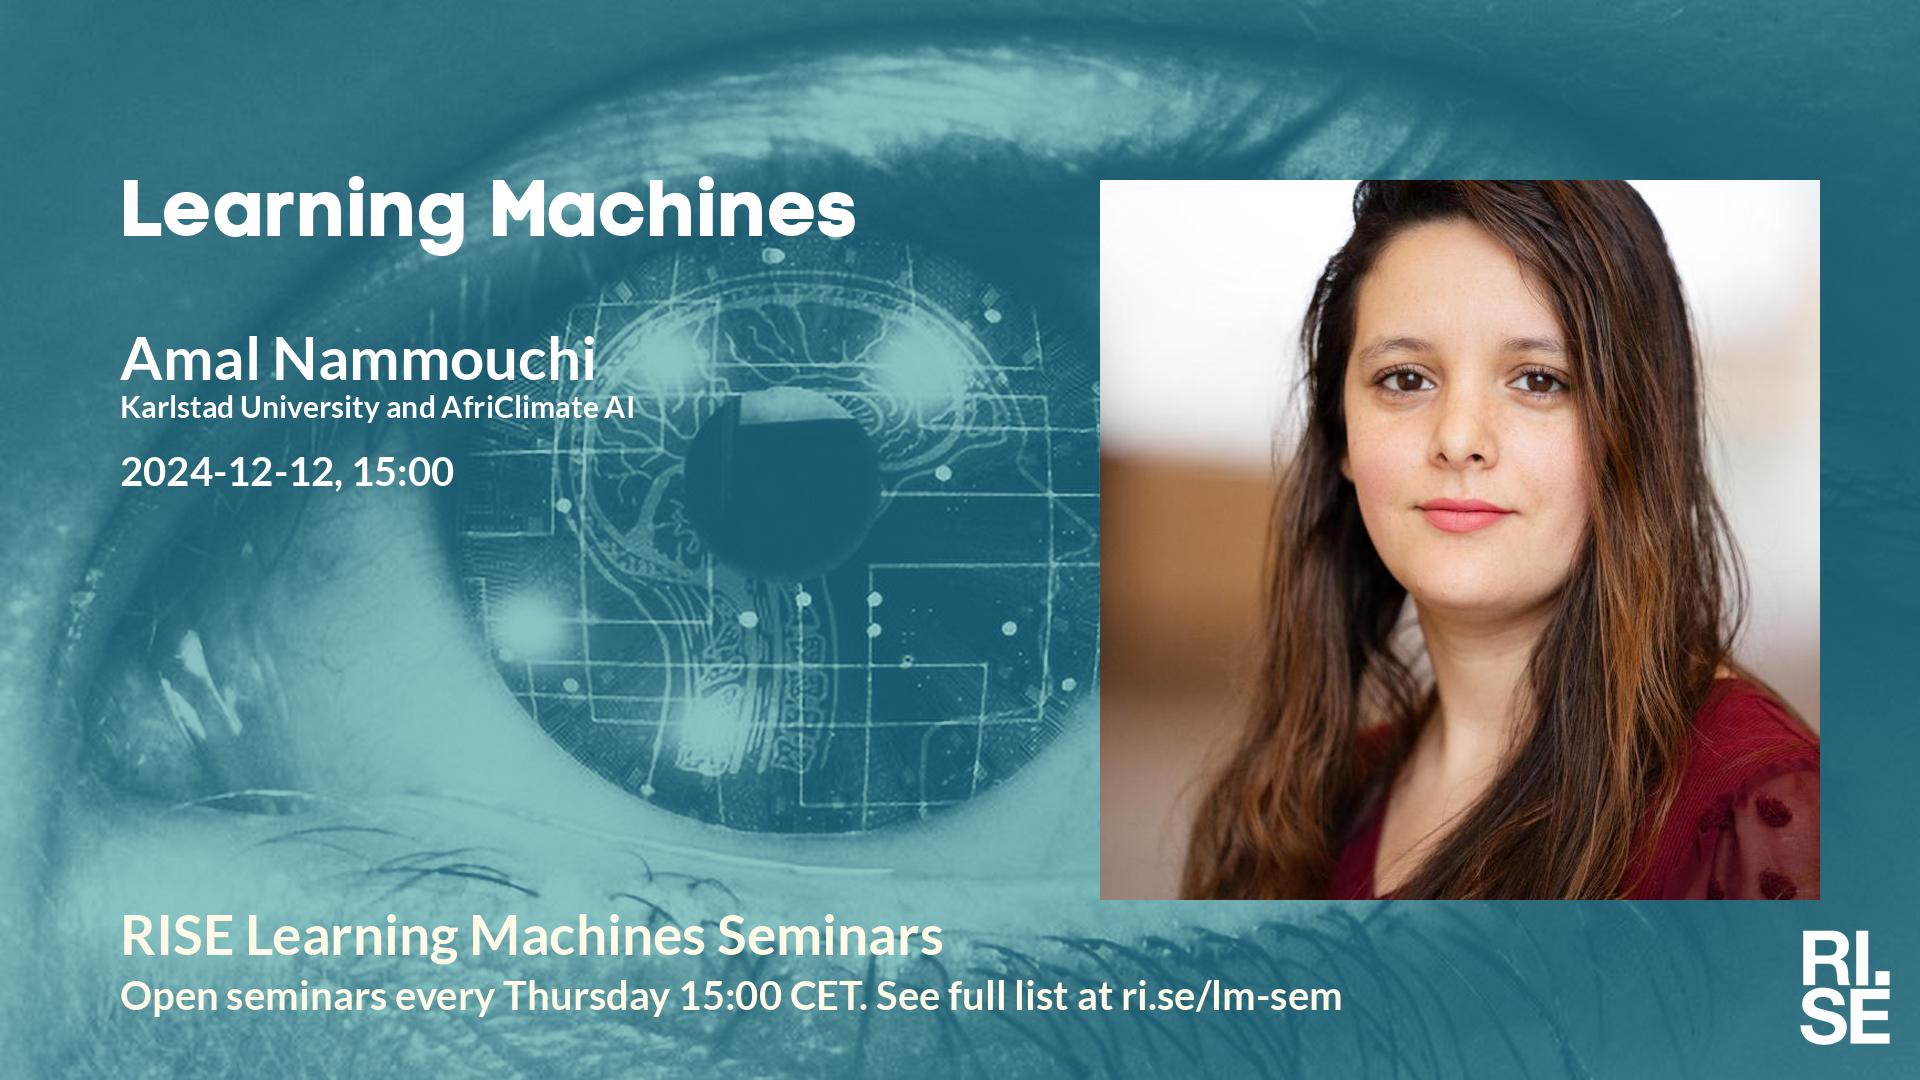
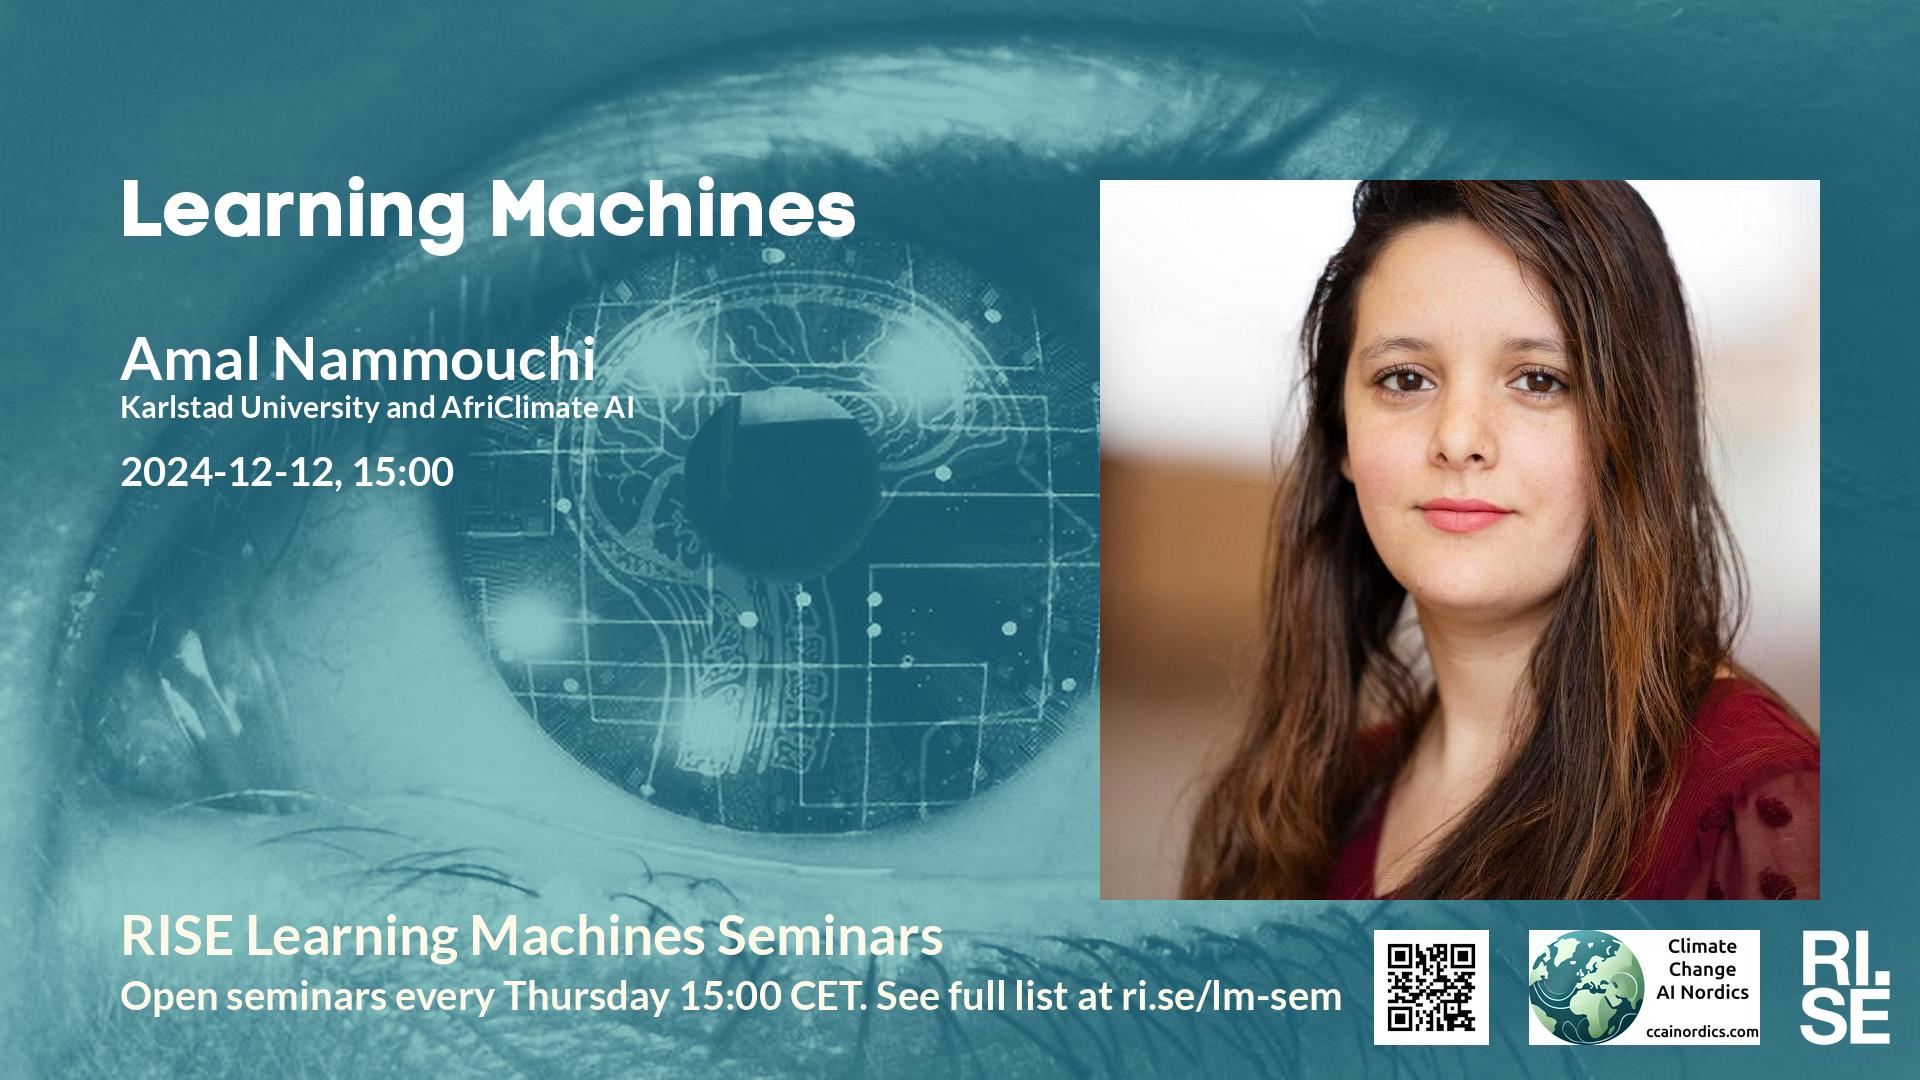
Updated plan on web site.

Changed region(s): [[0.7188, 0.8556, 0.9375, 0.9778]]

diff --git a/lm/2024-12-12.md b/lm/2024-12-12.md
@@ -5,6 +5,8 @@ metatags: "<meta name=\"robots\" content=\"noindex,nofollow\" />"
  
 Welcome to this week's Learning Machines seminar.
 
+This seminar is a collaboration between RISE and Climate Change AI Nordics -- [ccainordics.com](https://ccainordics.com/).
+
 **Title:** N/A
 
 **Speaker:** Amal Nammouchi, Karlstad University and AfriClimate AI

diff --git a/lm/2025-01-16.md b/lm/2025-01-16.md
@@ -1,8 +1,6 @@
 ---
 layout: default
 metatags: "<meta name=\"robots\" content=\"noindex,nofollow\" />"
-event_date: 2025-01-16 15:00
-event_location: 
 ---
  
 Welcome to this week's Learning Machines seminar.

diff --git a/lm/2025-01-23.md b/lm/2025-01-23.md
@@ -1,8 +1,6 @@
 ---
 layout: default
 metatags: "<meta name=\"robots\" content=\"noindex,nofollow\" />"
-event_date: 2025-01-23 15:00
-event_location: 
 ---
  
 Welcome to this week's Learning Machines seminar.
